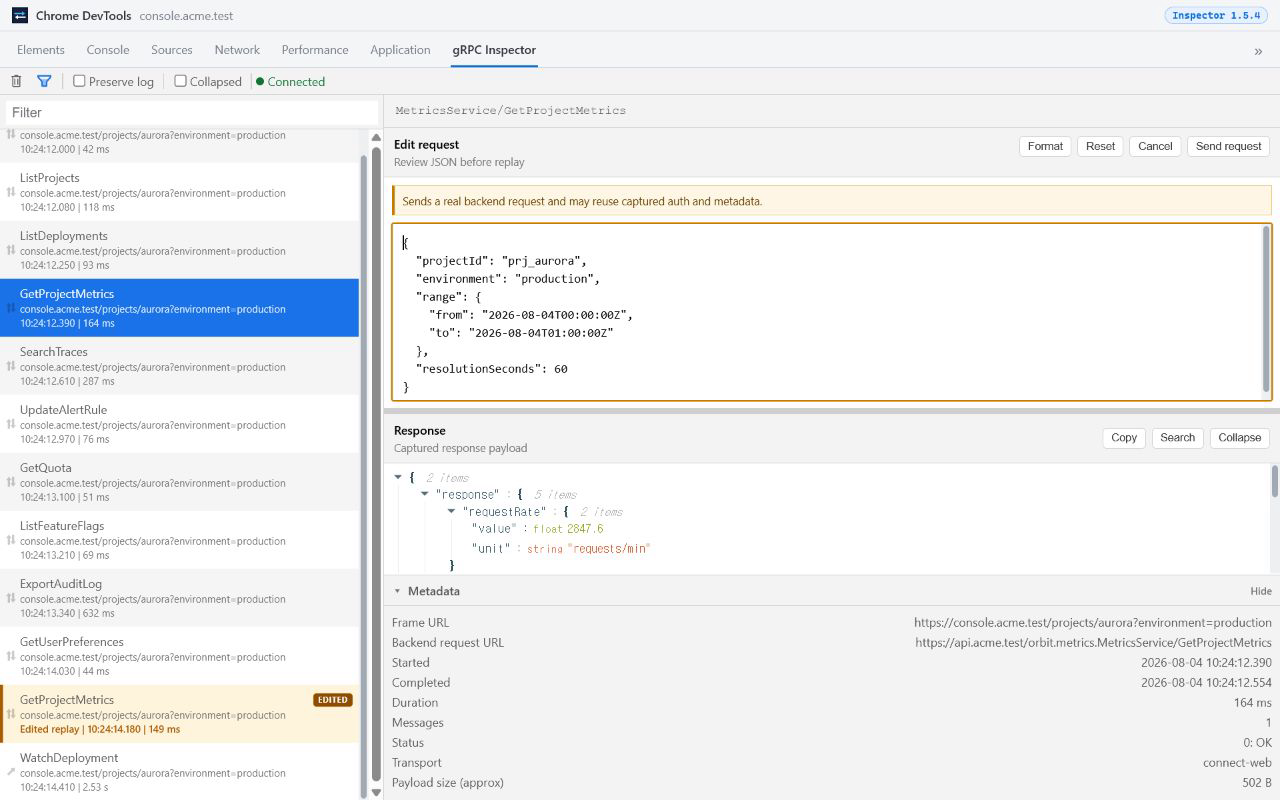
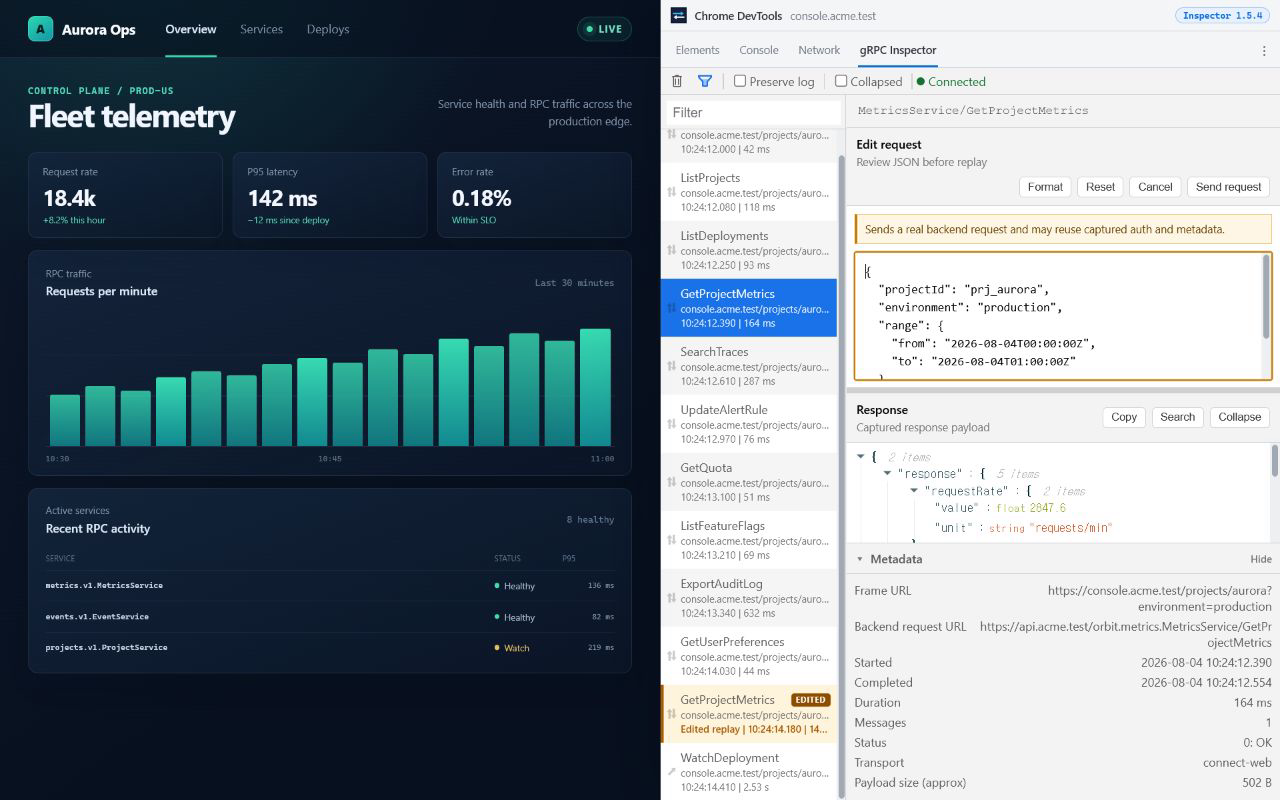
Update store screenshots for docked sidebar use

diff --git a/store-listing/screenshot-plan.md b/store-listing/screenshot-plan.md
@@ -1,6 +1,6 @@
 # Screenshot plan
 
-All screenshots are 1280 × 800 PNGs, full bleed, with square corners. The UI is populated with deterministic fictional data; no credentials, tokens, or production endpoints are shown.
+All screenshots are store-compliant 1280 × 800 PNGs, full bleed, with square corners. Each image shows the inspector at a realistic 620 × 800 right-docked DevTools width beside a fictional 660 × 800 application. The UI is populated with deterministic fictional data; no credentials, tokens, or production endpoints are shown.
 
 ## 01 — Inspect every RPC at a glance
 
@@ -41,4 +41,3 @@ All screenshots are 1280 × 800 PNGs, full bleed, with square corners. The UI is
 - Supporting line: Spot edited replays and complete protobuf values in a polished dark DevTools workspace.
 - UI state: dark theme; edited replay selected; Edited badge and replay provenance visible; default-valued fields visible.
 - Evidence: dark mode, replay provenance, Connect-Web/protobuf-ts default scalar fields.
-

diff --git a/store-listing/asset-spec.md b/store-listing/asset-spec.md
@@ -12,6 +12,7 @@
 ## Export rules
 
 - Use square corners, full bleed, and no surrounding image padding.
+- Keep the store canvas at 1280 × 800 while presenting the inspector in a 620 px right-docked DevTools sidebar.
 - Show only real, current product behavior.
 - Use fictional demo data and local/example endpoints.
 - Keep browser and DevTools chrome legible at store thumbnail size.
@@ -23,4 +24,3 @@ Official guidance:
 - https://developer.chrome.com/docs/webstore/images/
 - https://developer.chrome.com/docs/webstore/cws-dashboard-listing
 - https://developer.chrome.com/docs/webstore/best-listing
-

diff --git a/store-listing/README.md b/store-listing/README.md
@@ -17,4 +17,4 @@ Use these files to update the Chrome Web Store listing:
 5. Dark edited replay — Edited badge and replay provenance
 
 The screenshots use deterministic fictional data and `.test` endpoints.
-
+They preserve the required 1280 × 800 upload size while showing the inspector at a realistic 620 px right-docked sidebar width.
